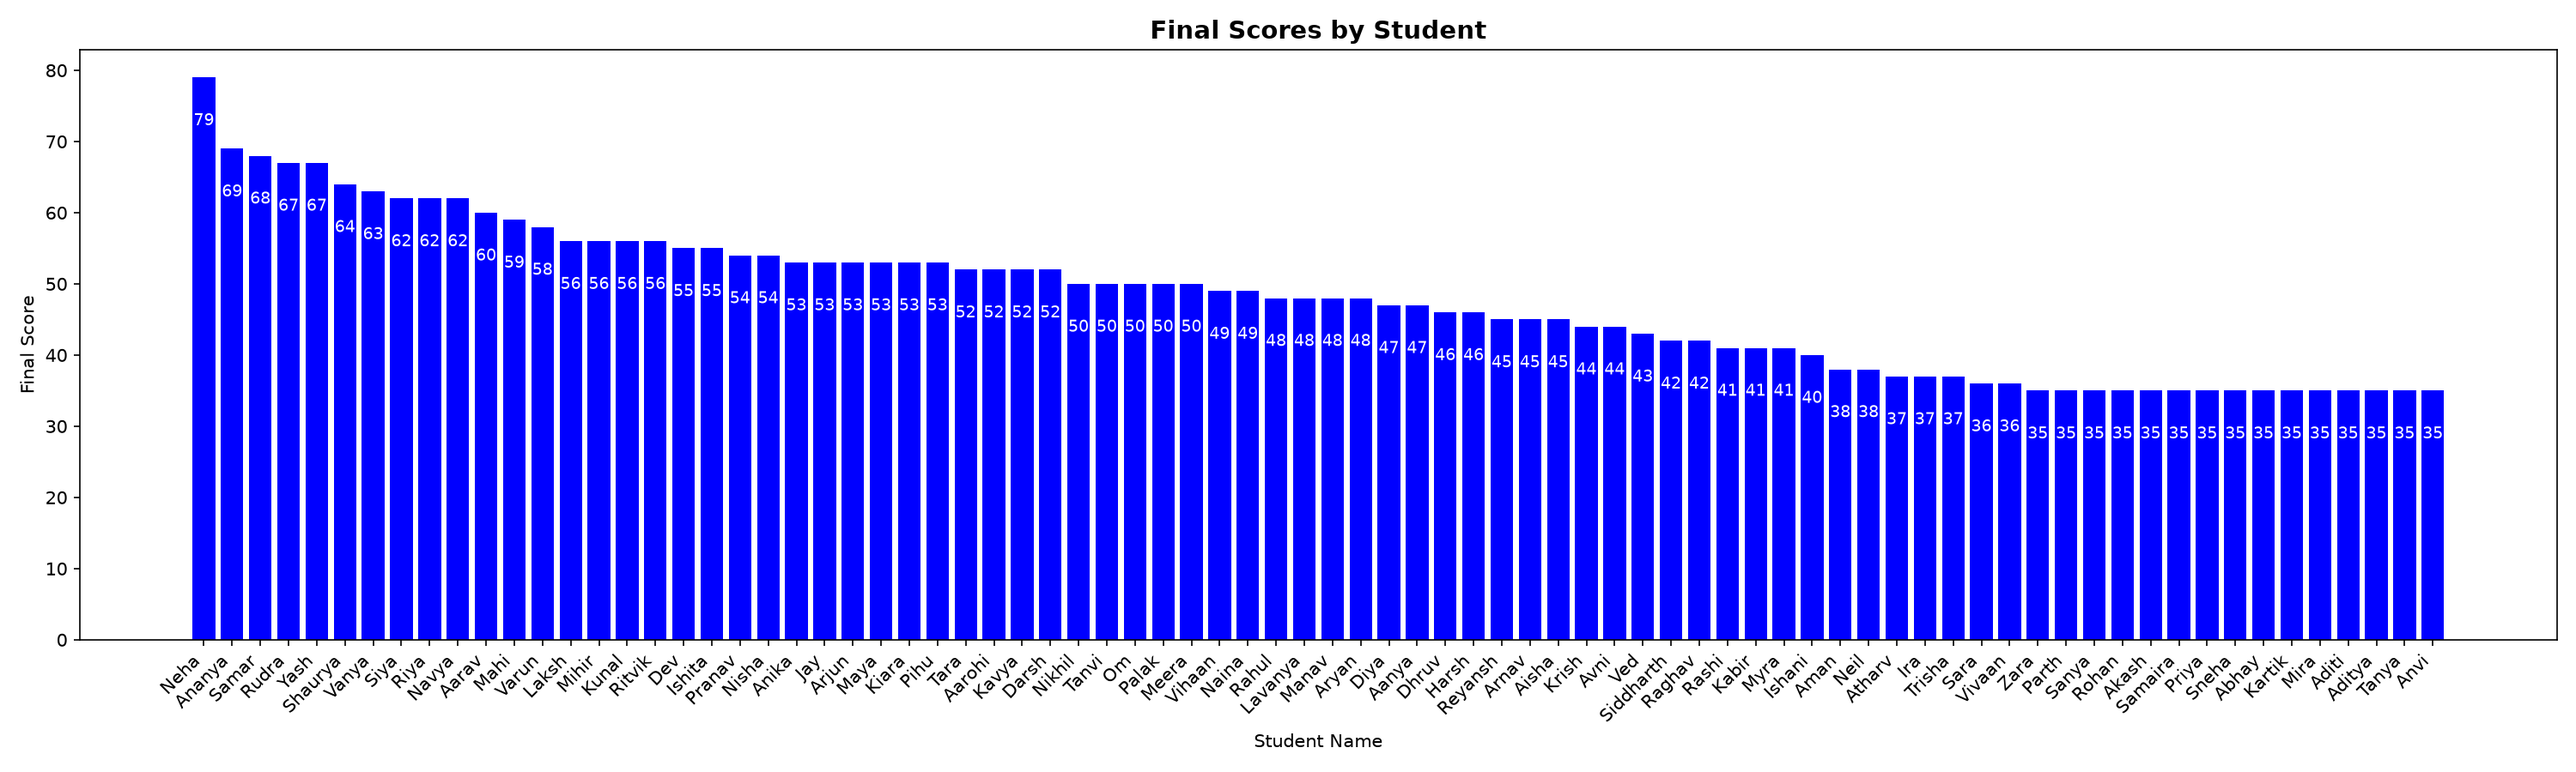
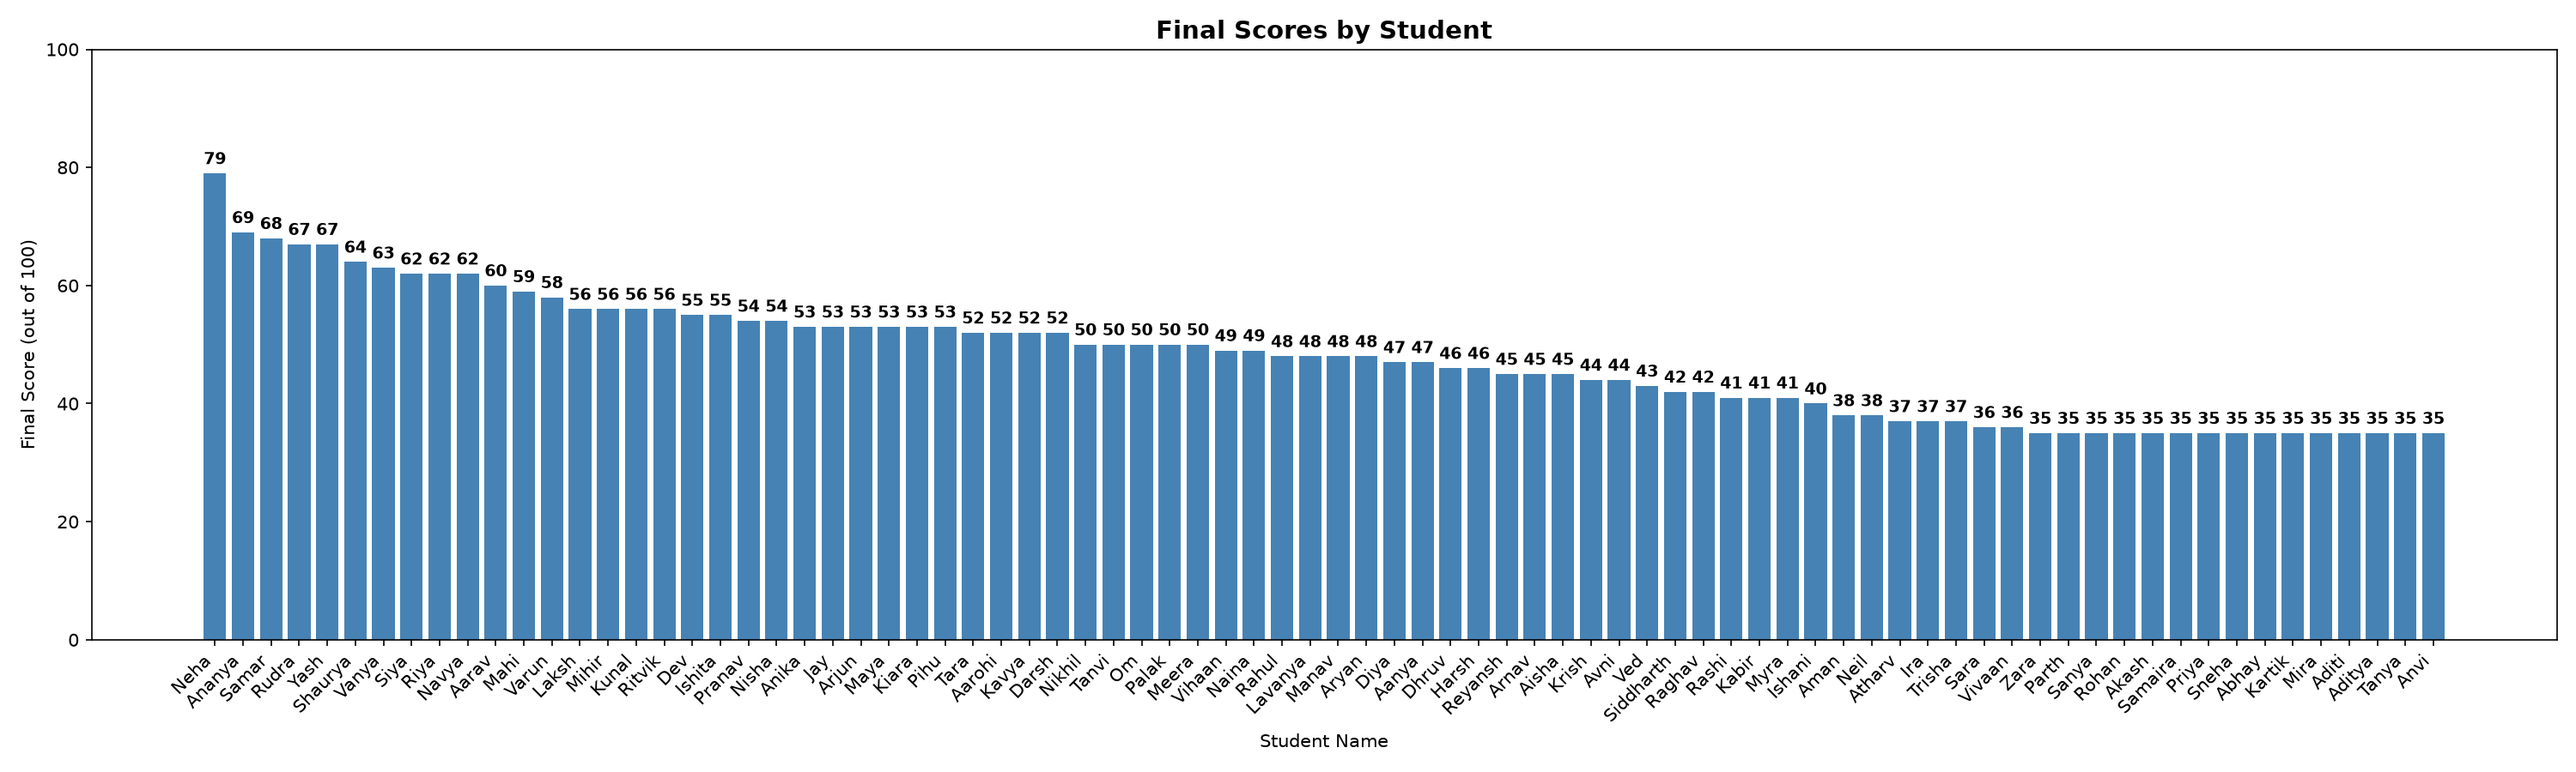
made the graphs in q6 cleaner

diff --git a/q6.py b/q6.py
@@ -5,20 +5,14 @@ df = pd.read_csv("./data/processed_student_performance.csv")
 
 #Bar chart: Student names vs final scores
 plt.figure(figsize=(20, 6))
-bars = plt.bar(df["Student"], df["Final_Score"], color="blue")
+bars = plt.bar(df["Student"], df["Final_Score"], color="steelblue")
+
 plt.title("Final Scores by Student", fontsize=14, fontweight="bold")
 plt.xlabel("Student Name")
-plt.ylabel("Final Score")
+plt.ylabel("Final Score (out of 100)")
 plt.xticks(rotation=45, ha="right")
-for bar in bars:
-    height = bar.get_height()
-    plt.text(
-        bar.get_x() + bar.get_width() / 2,   # x: center of the bar
-        height - 5,                          # y: slightly below the top (inside the bar)
-        f"{height:.0f}",                     # label text
-        ha="center", va="top",
-        color="white", fontsize=9
-    )
+plt.ylim(0, 100)
+plt.bar_label(bars, fmt="%.0f", padding=3, fontsize=9, fontweight="bold")
 plt.tight_layout()
 plt.savefig("./plots/final_scores.png", dpi=150)
 plt.close()
@@ -35,11 +29,13 @@ plt.savefig("./plots/study_vs_score.png", dpi=150)
 plt.close()
 
 #Histogram: Distribution of final scores
-plt.figure(figsize=(8, 6))
-plt.hist(df["Final_Score"], bins=10, color="green", edgecolor="black")
+plt.figure(figsize=(9, 6))
+n, bins, patches = plt.hist(df["Final_Score"], bins=11, color="mediumseagreen", edgecolor="black")
 plt.title("Distribution of Final Scores", fontsize=14, fontweight="bold")
-plt.xlabel("Final Score")
+plt.xlabel("Final Score Range (out of 100)")
 plt.ylabel("Number of Students")
+plt.bar_label(patches, fmt="%.0f", padding=3, fontsize=9, fontweight="bold")
+plt.xticks(bins, [f"{edge:.0f}" for edge in bins], rotation=45, ha="right")
 plt.tight_layout()
 plt.savefig("./plots/score_distribution.png", dpi=150)
 plt.close()
